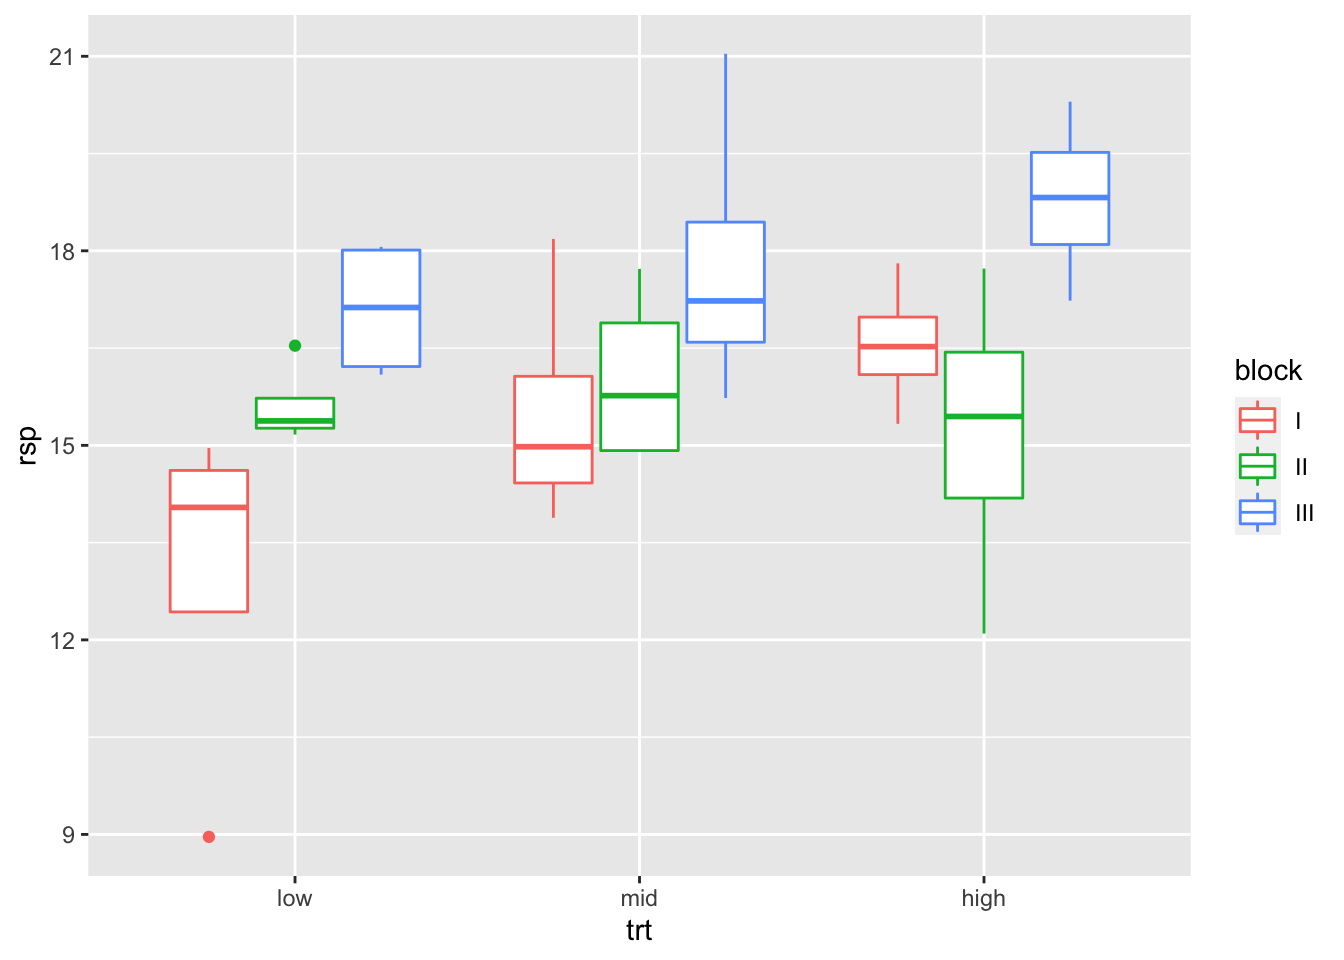
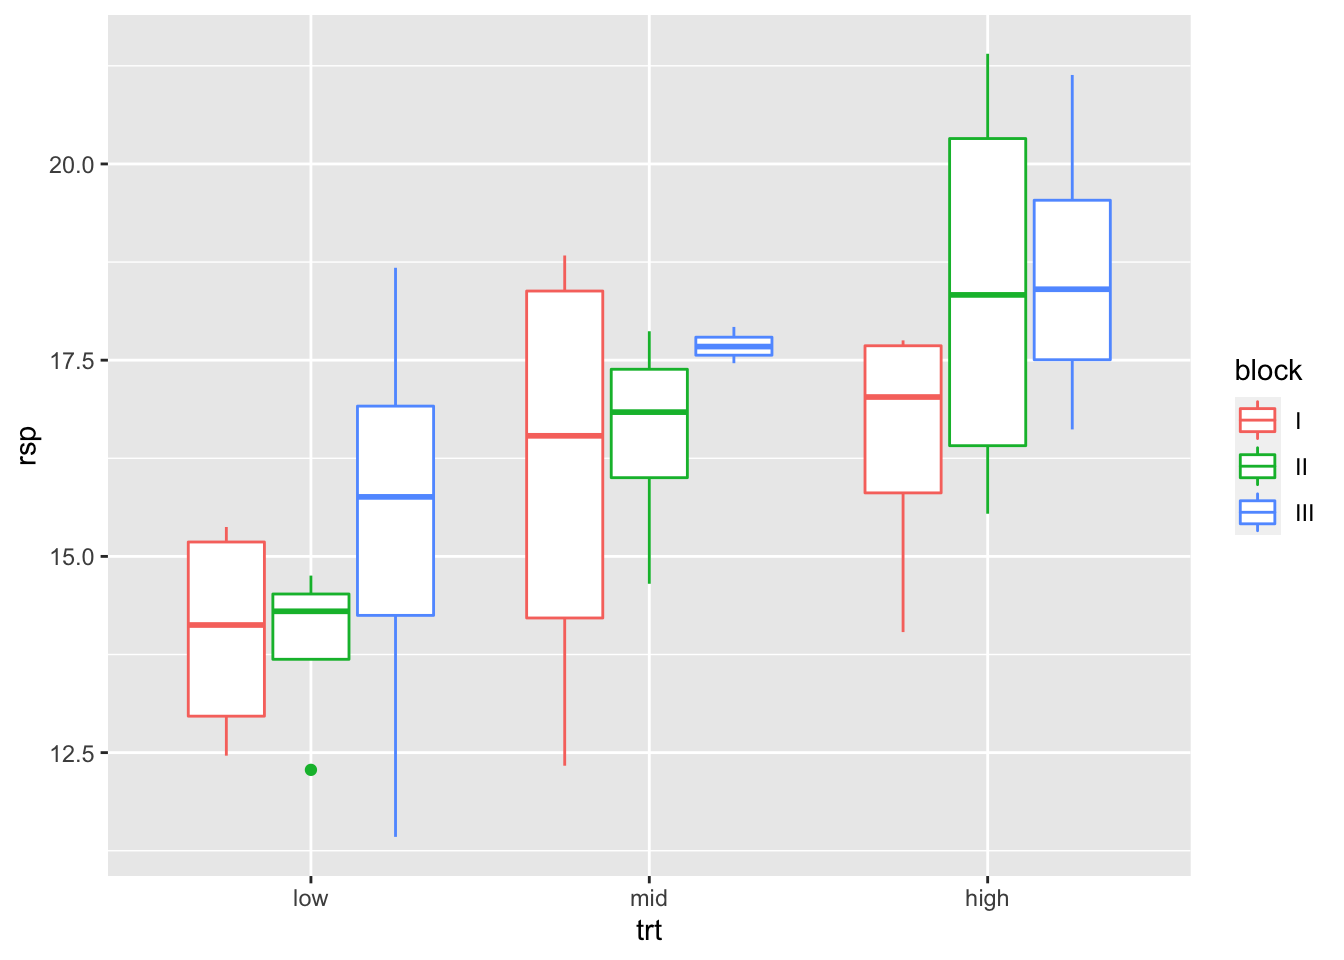
add text

diff --git a/docs/app-example-analysis.html b/docs/app-example-analysis.html
@@ -538,7 +538,7 @@ code span.wa { color: #60a0b0; font-weight: bold; font-style: italic; } /* Warni
 </header><div class="cell">
 
 </div>
-<p><em>Version vom October 31, 2022 um 19:12:59</em></p>
+<p><em>Version vom October 31, 2022 um 19:15:23</em></p>
 <section id="genutzte-r-pakete-für-das-kapitel" class="level2" data-number="A.1"><h2 data-number="A.1" class="anchored" data-anchor-id="genutzte-r-pakete-für-das-kapitel">
 <span class="header-section-number">A.1</span> Genutzte R Pakete für das Kapitel</h2>
 <p>Wir wollen folgende R Pakete in diesem Kapitel nutzen.</p>
@@ -589,7 +589,7 @@ code span.wa { color: #60a0b0; font-weight: bold; font-style: italic; } /* Warni
 <div class="cell-output-display column-page">
 <div id="fig-weather" class="quarto-figure quarto-figure-center anchored">
 <figure class="figure"><p><img src="app-example-analysis_files/figure-html/fig-weather-1.png" class="img-fluid figure-img" width="864"></p>
-<p></p><figcaption aria-hidden="true" class="figure-caption">Abbildung A.1— Konturplot der Minimum der Temperatur in 5 cm über dem Erdboden (TG), Minimum der Temperatur in 2 m über dem Erdboden (TN), Mittel der Temperatur in 2 m über dem Erdboden (TM) und Maximum der Temperatur in 2 m über dem Erdboden (TX).</figcaption><p></p>
+<p></p><figcaption aria-hidden="true" class="figure-caption">Abbildung A.1— Konturplot der verschiedenen Temperaturen.</figcaption><p></p>
 </figure>
 </div>
 </div>
@@ -673,217 +673,217 @@ X-squared = 13.8689, df = 3, p-value = 0.0030892</code></pre>
 <td style="text-align: center;">low</td>
 <td style="text-align: center;">I</td>
 <td style="text-align: center;">1</td>
-<td style="text-align: center;">8.96</td>
+<td style="text-align: center;">15.12</td>
 </tr>
 <tr class="even">
 <td style="text-align: center;">low</td>
 <td style="text-align: center;">I</td>
 <td style="text-align: center;">2</td>
-<td style="text-align: center;">14.50</td>
+<td style="text-align: center;">12.46</td>
 </tr>
 <tr class="odd">
 <td style="text-align: center;">low</td>
 <td style="text-align: center;">I</td>
 <td style="text-align: center;">3</td>
-<td style="text-align: center;">14.96</td>
+<td style="text-align: center;">13.13</td>
 </tr>
 <tr class="even">
 <td style="text-align: center;">low</td>
 <td style="text-align: center;">I</td>
 <td style="text-align: center;">4</td>
-<td style="text-align: center;">13.59</td>
+<td style="text-align: center;">15.37</td>
 </tr>
 <tr class="odd">
 <td style="text-align: center;">low</td>
 <td style="text-align: center;">II</td>
 <td style="text-align: center;">1</td>
-<td style="text-align: center;">16.54</td>
+<td style="text-align: center;">12.28</td>
 </tr>
 <tr class="even">
 <td style="text-align: center;">low</td>
 <td style="text-align: center;">II</td>
 <td style="text-align: center;">2</td>
-<td style="text-align: center;">15.46</td>
+<td style="text-align: center;">14.76</td>
 </tr>
 <tr class="odd">
 <td style="text-align: center;">low</td>
 <td style="text-align: center;">II</td>
 <td style="text-align: center;">3</td>
-<td style="text-align: center;">15.17</td>
+<td style="text-align: center;">14.44</td>
 </tr>
 <tr class="even">
 <td style="text-align: center;">low</td>
 <td style="text-align: center;">II</td>
 <td style="text-align: center;">4</td>
-<td style="text-align: center;">15.30</td>
+<td style="text-align: center;">14.16</td>
 </tr>
 <tr class="odd">
 <td style="text-align: center;">low</td>
 <td style="text-align: center;">III</td>
 <td style="text-align: center;">1</td>
-<td style="text-align: center;">16.26</td>
+<td style="text-align: center;">16.33</td>
 </tr>
 <tr class="even">
 <td style="text-align: center;">low</td>
 <td style="text-align: center;">III</td>
 <td style="text-align: center;">2</td>
-<td style="text-align: center;">17.99</td>
+<td style="text-align: center;">11.43</td>
 </tr>
 <tr class="odd">
 <td style="text-align: center;">low</td>
 <td style="text-align: center;">III</td>
 <td style="text-align: center;">3</td>
-<td style="text-align: center;">18.06</td>
+<td style="text-align: center;">15.19</td>
 </tr>
 <tr class="even">
 <td style="text-align: center;">low</td>
 <td style="text-align: center;">III</td>
 <td style="text-align: center;">4</td>
-<td style="text-align: center;">16.09</td>
+<td style="text-align: center;">18.68</td>
 </tr>
 <tr class="odd">
 <td style="text-align: center;">mid</td>
 <td style="text-align: center;">I</td>
 <td style="text-align: center;">1</td>
-<td style="text-align: center;">13.88</td>
+<td style="text-align: center;">14.84</td>
 </tr>
 <tr class="even">
 <td style="text-align: center;">mid</td>
 <td style="text-align: center;">I</td>
 <td style="text-align: center;">2</td>
-<td style="text-align: center;">15.36</td>
+<td style="text-align: center;">18.83</td>
 </tr>
 <tr class="odd">
 <td style="text-align: center;">mid</td>
 <td style="text-align: center;">I</td>
 <td style="text-align: center;">3</td>
-<td style="text-align: center;">18.18</td>
+<td style="text-align: center;">18.23</td>
 </tr>
 <tr class="even">
 <td style="text-align: center;">mid</td>
 <td style="text-align: center;">I</td>
 <td style="text-align: center;">4</td>
-<td style="text-align: center;">14.60</td>
+<td style="text-align: center;">12.33</td>
 </tr>
 <tr class="odd">
 <td style="text-align: center;">mid</td>
 <td style="text-align: center;">II</td>
 <td style="text-align: center;">1</td>
-<td style="text-align: center;">16.61</td>
+<td style="text-align: center;">14.65</td>
 </tr>
 <tr class="even">
 <td style="text-align: center;">mid</td>
 <td style="text-align: center;">II</td>
 <td style="text-align: center;">2</td>
-<td style="text-align: center;">17.72</td>
+<td style="text-align: center;">17.22</td>
 </tr>
 <tr class="odd">
 <td style="text-align: center;">mid</td>
 <td style="text-align: center;">II</td>
 <td style="text-align: center;">3</td>
-<td style="text-align: center;">14.91</td>
+<td style="text-align: center;">16.45</td>
 </tr>
 <tr class="even">
 <td style="text-align: center;">mid</td>
 <td style="text-align: center;">II</td>
 <td style="text-align: center;">4</td>
-<td style="text-align: center;">14.92</td>
+<td style="text-align: center;">17.87</td>
 </tr>
 <tr class="odd">
 <td style="text-align: center;">mid</td>
 <td style="text-align: center;">III</td>
 <td style="text-align: center;">1</td>
-<td style="text-align: center;">17.58</td>
+<td style="text-align: center;">17.75</td>
 </tr>
 <tr class="even">
 <td style="text-align: center;">mid</td>
 <td style="text-align: center;">III</td>
 <td style="text-align: center;">2</td>
-<td style="text-align: center;">16.88</td>
+<td style="text-align: center;">17.60</td>
 </tr>
 <tr class="odd">
 <td style="text-align: center;">mid</td>
 <td style="text-align: center;">III</td>
 <td style="text-align: center;">3</td>
-<td style="text-align: center;">21.04</td>
+<td style="text-align: center;">17.46</td>
 </tr>
 <tr class="even">
 <td style="text-align: center;">mid</td>
 <td style="text-align: center;">III</td>
 <td style="text-align: center;">4</td>
-<td style="text-align: center;">15.73</td>
+<td style="text-align: center;">17.92</td>
 </tr>
 <tr class="odd">
 <td style="text-align: center;">high</td>
 <td style="text-align: center;">I</td>
 <td style="text-align: center;">1</td>
-<td style="text-align: center;">17.81</td>
+<td style="text-align: center;">14.04</td>
 </tr>
 <tr class="even">
 <td style="text-align: center;">high</td>
 <td style="text-align: center;">I</td>
 <td style="text-align: center;">2</td>
-<td style="text-align: center;">15.33</td>
+<td style="text-align: center;">17.66</td>
 </tr>
 <tr class="odd">
 <td style="text-align: center;">high</td>
 <td style="text-align: center;">I</td>
 <td style="text-align: center;">3</td>
-<td style="text-align: center;">16.34</td>
+<td style="text-align: center;">17.75</td>
 </tr>
 <tr class="even">
 <td style="text-align: center;">high</td>
 <td style="text-align: center;">I</td>
+<td style="text-align: center;">4</td>
+<td style="text-align: center;">16.40</td>
+</tr>
+<tr class="odd">
+<td style="text-align: center;">high</td>
+<td style="text-align: center;">II</td>
+<td style="text-align: center;">1</td>
+<td style="text-align: center;">21.40</td>
+</tr>
+<tr class="even">
+<td style="text-align: center;">high</td>
+<td style="text-align: center;">II</td>
+<td style="text-align: center;">2</td>
+<td style="text-align: center;">19.96</td>
+</tr>
+<tr class="odd">
+<td style="text-align: center;">high</td>
+<td style="text-align: center;">II</td>
+<td style="text-align: center;">3</td>
+<td style="text-align: center;">15.54</td>
+</tr>
+<tr class="even">
+<td style="text-align: center;">high</td>
+<td style="text-align: center;">II</td>
 <td style="text-align: center;">4</td>
 <td style="text-align: center;">16.70</td>
 </tr>
 <tr class="odd">
 <td style="text-align: center;">high</td>
-<td style="text-align: center;">II</td>
-<td style="text-align: center;">1</td>
-<td style="text-align: center;">16.01</td>
-</tr>
-<tr class="even">
-<td style="text-align: center;">high</td>
-<td style="text-align: center;">II</td>
-<td style="text-align: center;">2</td>
-<td style="text-align: center;">12.10</td>
-</tr>
-<tr class="odd">
-<td style="text-align: center;">high</td>
-<td style="text-align: center;">II</td>
-<td style="text-align: center;">3</td>
-<td style="text-align: center;">14.88</td>
-</tr>
-<tr class="even">
-<td style="text-align: center;">high</td>
-<td style="text-align: center;">II</td>
-<td style="text-align: center;">4</td>
-<td style="text-align: center;">17.73</td>
-</tr>
-<tr class="odd">
-<td style="text-align: center;">high</td>
 <td style="text-align: center;">III</td>
 <td style="text-align: center;">1</td>
-<td style="text-align: center;">17.23</td>
+<td style="text-align: center;">17.80</td>
 </tr>
 <tr class="even">
 <td style="text-align: center;">high</td>
 <td style="text-align: center;">III</td>
 <td style="text-align: center;">2</td>
-<td style="text-align: center;">20.30</td>
+<td style="text-align: center;">16.62</td>
 </tr>
 <tr class="odd">
 <td style="text-align: center;">high</td>
 <td style="text-align: center;">III</td>
 <td style="text-align: center;">3</td>
-<td style="text-align: center;">19.26</td>
+<td style="text-align: center;">19.01</td>
 </tr>
 <tr class="even">
 <td style="text-align: center;">high</td>
 <td style="text-align: center;">III</td>
 <td style="text-align: center;">4</td>
-<td style="text-align: center;">18.39</td>
+<td style="text-align: center;">21.13</td>
 </tr>
 </tbody>
 </table>
@@ -927,10 +927,10 @@ X-squared = 13.8689, df = 3, p-value = 0.0030892</code></pre>
 <pre><code>Analysis of Variance Table
 
 Response: rsp
-          Df   Sum Sq  Mean Sq F value    Pr(&gt;F)   
-trt        2  16.7271  8.36353 2.55610 0.0938577 . 
-block      2  55.5920 27.79601 8.49515 0.0011435 **
-Residuals 31 101.4316  3.27199                     
+          Df   Sum Sq Mean Sq F value     Pr(&gt;F)    
+trt        2  72.0422 36.0211 9.43997 0.00062843 ***
+block      2  17.9797  8.9898 2.35595 0.11155916    
+Residuals 31 118.2900  3.8158                       
 ---
 Signif. codes:  0 '***' 0.001 '**' 0.01 '*' 0.05 '.' 0.1 ' ' 1</code></pre>
 </div>
@@ -948,9 +948,9 @@ Signif. codes:  0 '***' 0.001 '**' 0.01 '*' 0.05 '.' 0.1 ' ' 1</code></pre>
 <pre><code># A tibble: 3 × 3
   contrast   estimate adj.p.value
   &lt;chr&gt;         &lt;dbl&gt;       &lt;dbl&gt;
-1 mid - low     1.21       0.244 
-2 high - low    1.60       0.0929
-3 high - mid    0.388      0.859 </code></pre>
+1 mid - low      2.32      0.0178
+2 high - low     3.39      0.0006
+3 high - mid     1.07      0.383 </code></pre>
 </div>
 </div>
 </section><section id="gruppenvergleich-mit-der-emmeans-paket" class="level3" data-number="A.4.5"><h3 data-number="A.4.5" class="anchored" data-anchor-id="gruppenvergleich-mit-der-emmeans-paket">
@@ -967,9 +967,9 @@ Signif. codes:  0 '***' 0.001 '**' 0.01 '*' 0.05 '.' 0.1 ' ' 1</code></pre>
 <pre><code># A tibble: 3 × 3
   contrast   estimate adj.p.value
   &lt;chr&gt;         &lt;dbl&gt;       &lt;dbl&gt;
-1 low - mid    -1.21       0.244 
-2 low - high   -1.60       0.0929
-3 mid - high   -0.388      0.859 </code></pre>
+1 low - mid     -2.32      0.0178
+2 low - high    -3.39      0.0005
+3 mid - high    -1.07      0.383 </code></pre>
 </div>
 </div>
 </section></section><section id="auswertung-von-boniturnoten" class="level2" data-number="A.5"><h2 data-number="A.5" class="anchored" data-anchor-id="auswertung-von-boniturnoten">
